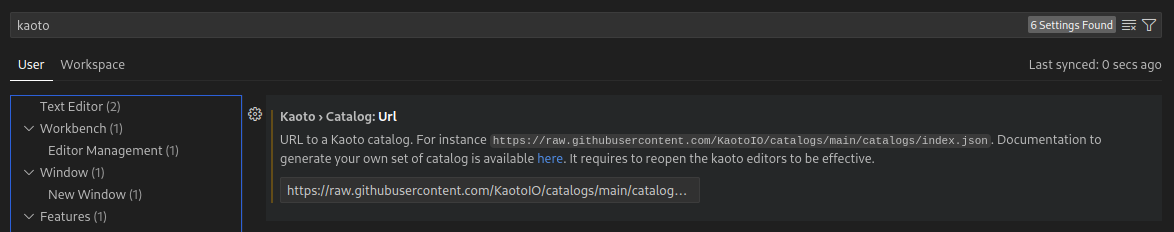
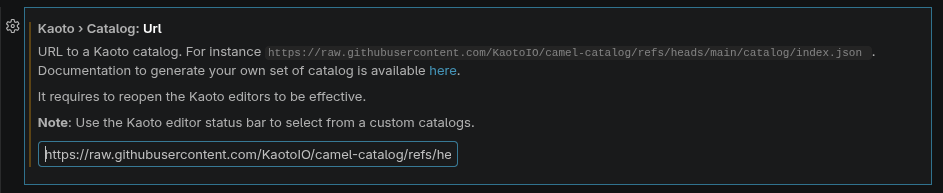
chore: update runtime documentation

diff --git a/content/docs/designer/04-runtime-selector/_index.md b/content/docs/designer/04-runtime-selector/_index.md
@@ -27,13 +27,13 @@ Kaoto provides a Camel catalog generator CLI to ease this process, it supports t
 yarn install
 ```
 
-1. Build the default catalogs
+4. Build the default catalogs
 
 ```bash
 yarn build
 ```
 
-1. This will generate a Catalog library containing:
+5. This will generate a Catalog library containing:
     * Camel Main versions
     * Camel extensions for Quarkus
     * Camel Spring boot
@@ -42,12 +42,12 @@ yarn build
 > To check what specific versions are included, please visit [the index file](https://github.com/KaotoIO/camel-catalog/blob/main/index.js)
 {.note}
 
-1. The resulting files will be in the `catalog` folder
+6. The resulting files will be in the `catalog` folder
 
 > The latest catalog is version is available in [the GitHub repository](https://github.com/KaotoIO/camel-catalog/tree/main/catalog)
 {.note}
 
-1. Providing that folder through a http server will make it available for using it in Kaoto
+7. Providing that folder through a http server will make it available for using it in Kaoto
 
 #### Creating a Catalog library with different runtimes
 
@@ -79,10 +79,12 @@ For a different Kamelets catalog version, the `--kamelets or -k` flag can be spe
 
 {{< image-sh src="vscode-kaoto-settings.png" text="VSCode Kaoto settings" >}}
 
-1. In the `TextField`, provide the URL of the `index.json` file that specifies the location of the subsequent catalogs, for instance, the public Kaoto catalog can be used:
+2. In the `TextField`, provide the URL of the `index.json` file that specifies the location of the subsequent catalogs, for instance, the public Kaoto catalog can be used:
 
 {{< image-sh src="setting-kaoto-catalog-url.png" text="Setting a Kaoto catalog URL" >}}
 
-1. Restart Kaoto for the changes to have effect
+3. Use the Kaoto editor status bar to select from a custom catalogs.
 
 {{< image-sh src="runtime-selector.png" text="Kaoto runtime selector" >}}
+
+4. Restart Kaoto for the changes to have effect

diff --git a/content/docs/designer/05-executing-integrations/_index.md b/content/docs/designer/05-executing-integrations/_index.md
@@ -15,6 +15,17 @@ Before running integrations in Kaoto, ensure you have completed the installation
 
 ---
 
+## Selecting an executor
+
+Starting with Kaoto 2.11, there's a new setting to select the runtime executor, which can be either `jbang` (default) or `camel-launcher` (experimental). This setting can be found in the same settings page as the Catalog library URL.
+
+{{< image-sh src="setting-executor-selection.png" text="Setting the runtime executor" >}}
+
+> [!WARNING]
+> At the moment, the `camel-launcher` executor is experimental and may not work with all Apache Camel versions.
+
+---
+
 ## Understanding Execution Scopes
 
 Kaoto provides three execution scopes to match your workflow: